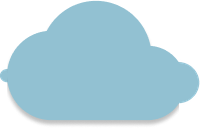
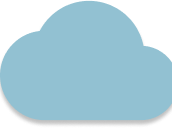
Clouds: drop the edge caps, keep the original flat edges; lift the stack clear of the artwork
The half-round caps glued onto the sliced cloud edges read as stray dots. The
original app shipped these clouds with flat left and right edges and that look
was fine; the thing that actually made them look cut off was the layout box
cropping them, which was fixed separately. So assets/clouds are now plain crops
of the originals with their transparent margins removed and nothing added.

The blue cloud and the travels artwork were sharing rows. The blob's bottom
padding lifts the whole cloud stack, and the artwork sits lower and larger in
the band that frees up, 66 percent wide by 215 tall, clear of the tab bar.

Verified on the simulator; the check account was deleted afterwards.

diff --git a/screens/HomeScreen.js b/screens/HomeScreen.js
@@ -60,18 +60,18 @@ export default function HomeScreen( {navigation} ) {
             </SafeAreaView>
 
             <ImageBackground source={blob} style={styles.statsSection} resizeMode="cover">
-                <ImageBackground source={redCloud} resizeMode="contain" style={[styles.cloud, styles.cloudLeft, { aspectRatio: 226 / 142 }]}>
+                <ImageBackground source={redCloud} resizeMode="contain" style={[styles.cloud, styles.cloudLeft, { aspectRatio: 191 / 142 }]}>
                     <Text numberOfLines={1} adjustsFontSizeToFit style={[styles.cloudNumber, styles.cloudTextRed]}>{streak}</Text>
                     <Text numberOfLines={1} adjustsFontSizeToFit style={[styles.cloudLabelLarge, styles.cloudTextRed]}>day streak</Text>
                 </ImageBackground>
 
-                <ImageBackground source={yellowCloud} resizeMode="contain" style={[styles.cloud, styles.cloudRight, { aspectRatio: 197 / 133 }]}>
+                <ImageBackground source={yellowCloud} resizeMode="contain" style={[styles.cloud, styles.cloudRight, { aspectRatio: 184 / 133 }]}>
                     <Text numberOfLines={1} adjustsFontSizeToFit style={[styles.cloudNumber, styles.cloudTextLight]}>{personalImprovement}x</Text>
                     <Text numberOfLines={1} adjustsFontSizeToFit style={[styles.cloudLabel, styles.cloudTextLight]}>personal</Text>
                     <Text numberOfLines={1} adjustsFontSizeToFit style={[styles.cloudLabel, styles.cloudTextLight]}>improvement</Text>
                 </ImageBackground>
 
-                <ImageBackground source={blueCloud} resizeMode="contain" style={[styles.cloud, styles.cloudLeft, { aspectRatio: 200 / 128 }]}>
+                <ImageBackground source={blueCloud} resizeMode="contain" style={[styles.cloud, styles.cloudLeft, { aspectRatio: 172 / 128 }]}>
                     <Text numberOfLines={1} adjustsFontSizeToFit style={[styles.cloudNumber, styles.cloudTextLight]}>{challengesCompleted}</Text>
                     <Text numberOfLines={1} adjustsFontSizeToFit style={[styles.cloudLabel, styles.cloudTextLight]}>{challengesCompleted === 1 ? "challenge" : "challenges"}</Text>
                     <Text numberOfLines={1} adjustsFontSizeToFit style={[styles.cloudLabel, styles.cloudTextLight]}>completed</Text>
@@ -101,17 +101,17 @@ const styles = StyleSheet.create({
         width: "100%",
         paddingTop: 4,
         justifyContent: "space-evenly",
-        // clears the floating tab bar, which sits 50 up and is 55 tall
-        paddingBottom: 112,
+        // lifts the cloud stack clear of the travels artwork below it
+        paddingBottom: 236,
     },
     travels: {
         // the artwork carries the bottom third of the screen now that the clouds
         // are smaller, so it gets real size
         position: "absolute",
         right: 0,
-        bottom: 100,
-        width: "62%",
-        height: 235,
+        bottom: 96,
+        width: "66%",
+        height: 215,
     },
     cloud: {
         // height comes from flex, width follows the artwork's own aspect ratio.
